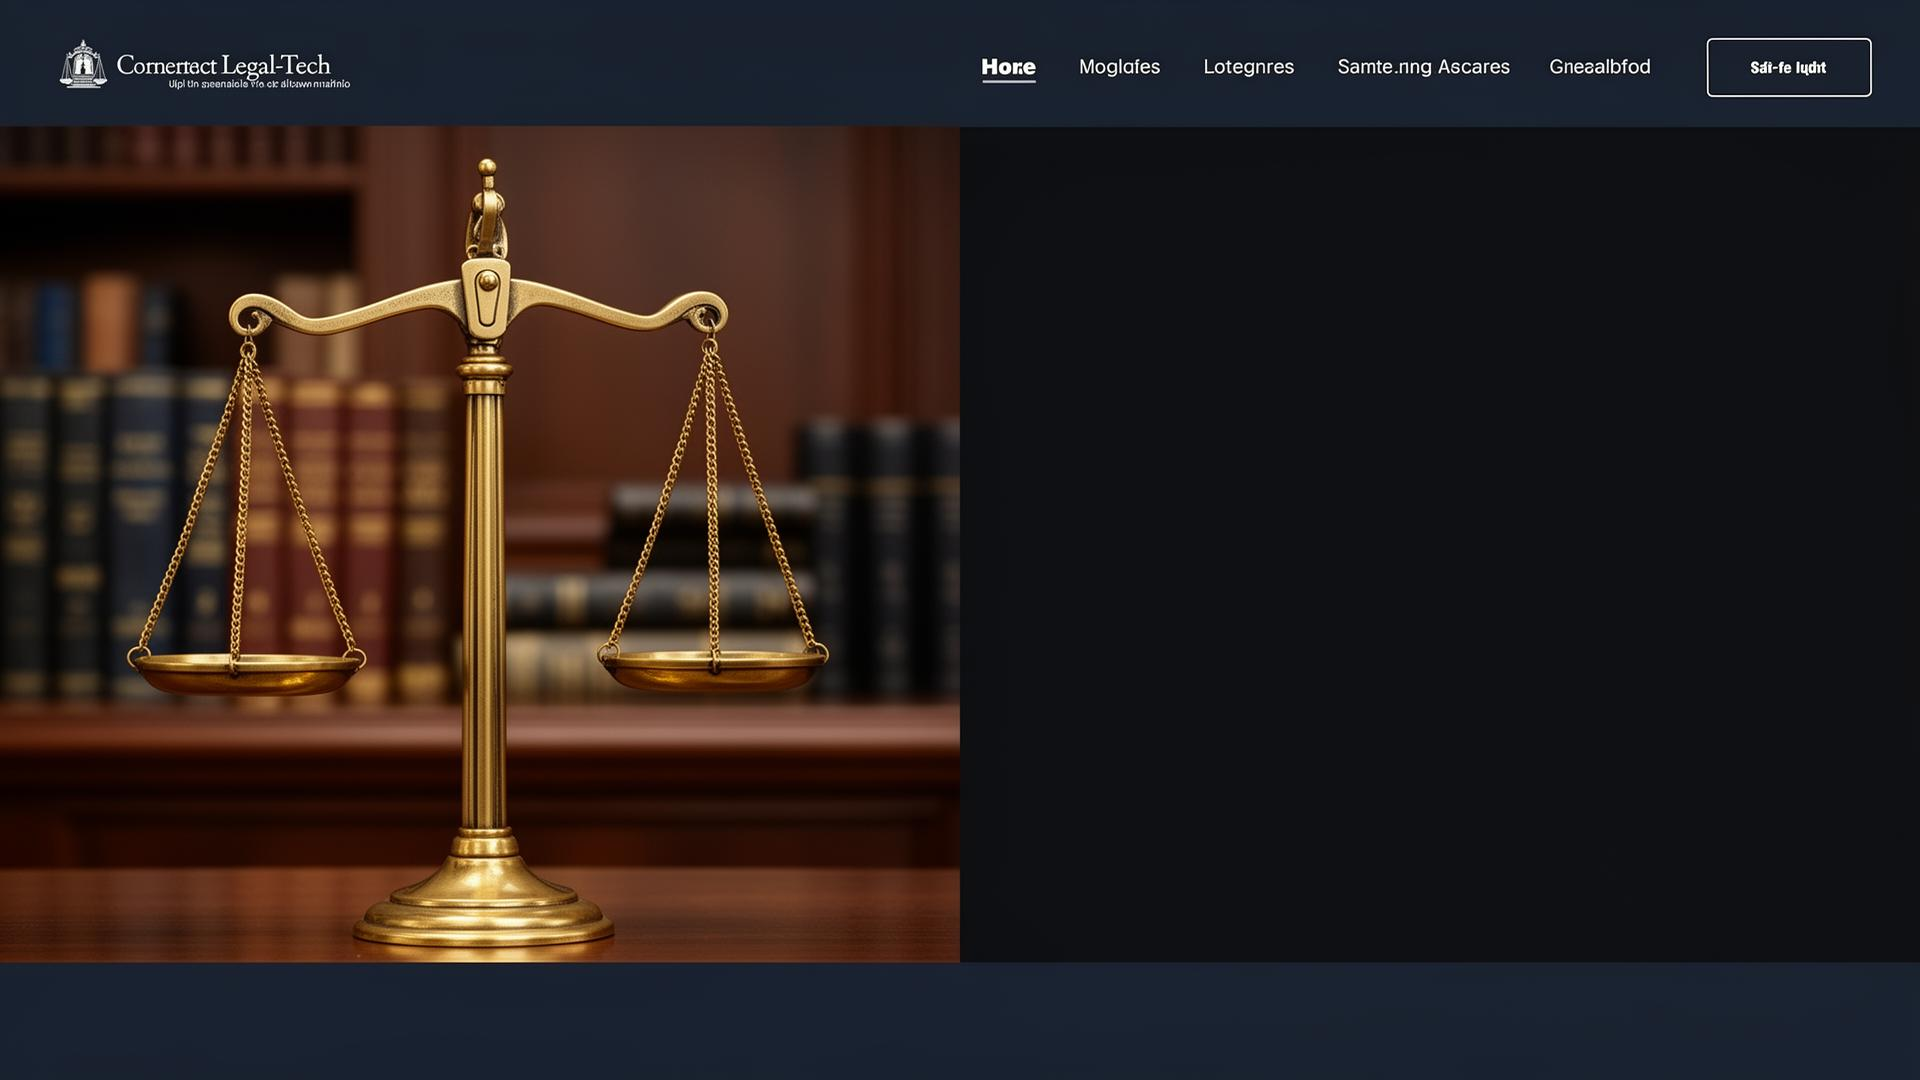
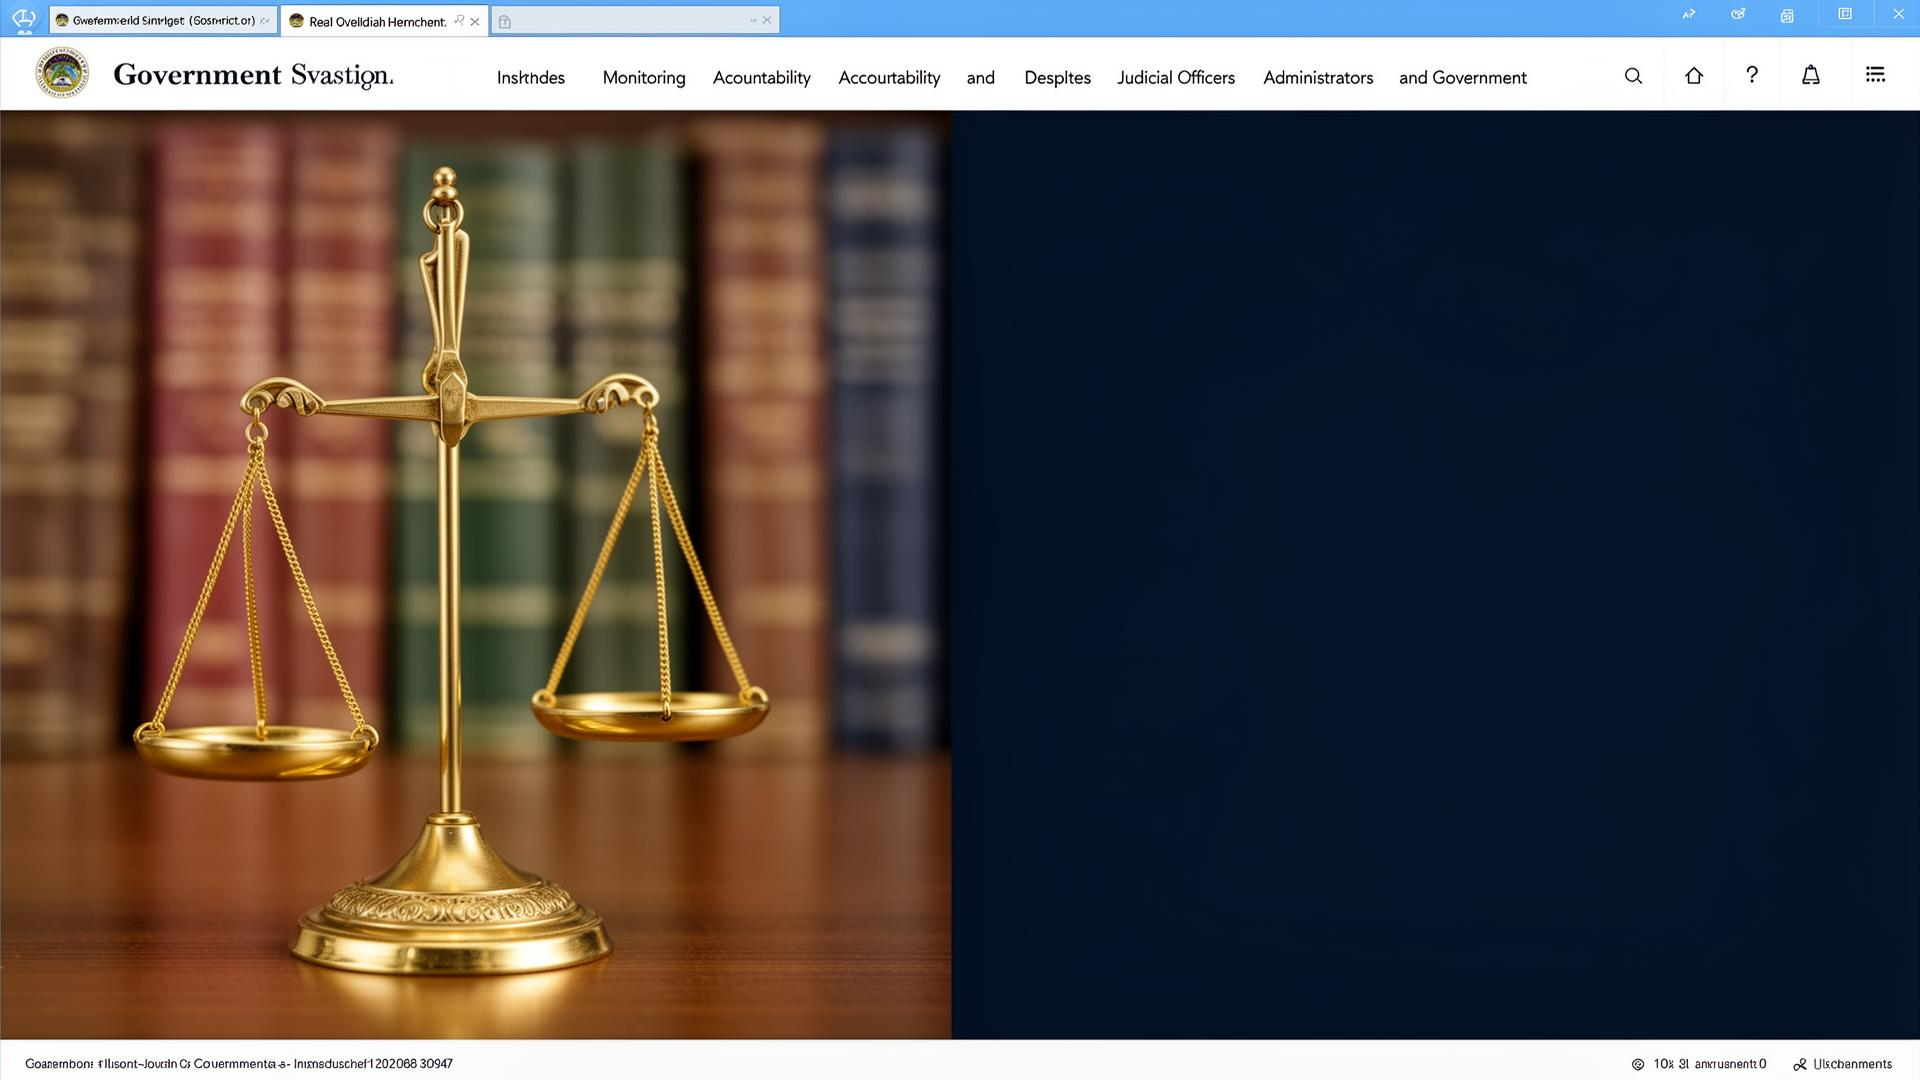
Changes

diff --git a/src/components/LandingPage.tsx b/src/components/LandingPage.tsx
@@ -93,100 +93,89 @@ const LandingPage = () => {
         </p>
       </motion.div>
 
-      {/* Main content - glassmorphism panel on right */}
+      {/* Main content - enterprise system panel */}
       <motion.div
-        className="relative z-10 flex-1 flex items-center justify-center md:justify-end px-6 md:px-12 lg:px-20"
+        className="relative z-10 flex-1 flex items-center justify-center md:justify-end px-6 md:px-12 lg:px-16"
         initial={{ opacity: 0 }}
         animate={{ opacity: isLaunching && showTransition ? 0 : 1 }}
-        transition={{ duration: 1 }}
+        transition={{ duration: 0.8 }}
       >
-        {/* Glassmorphism Content Panel */}
+        {/* Enterprise System Panel */}
         <motion.div 
-          className="relative w-full max-w-lg p-8 md:p-10 lg:p-12 rounded-2xl"
-          style={{
-            background: "linear-gradient(135deg, hsl(222 47% 8% / 0.85), hsl(222 47% 5% / 0.9))",
-            backdropFilter: "blur(20px)",
-            border: "1px solid hsl(43 52% 50% / 0.15)",
-            boxShadow: "0 8px 32px hsl(222 47% 3% / 0.5), inset 0 1px 0 hsl(43 52% 50% / 0.1)"
-          }}
-          initial={{ opacity: 0, x: 40 }}
-          animate={{ opacity: 1, x: 0 }}
-          transition={{ duration: 1.2, delay: 0.5 }}
+          className="relative w-full max-w-md border border-border/60 bg-card/95"
+          initial={{ opacity: 0, y: 20 }}
+          animate={{ opacity: 1, y: 0 }}
+          transition={{ duration: 0.8, delay: 0.4 }}
         >
-          {/* System State Indicator */}
-          <motion.div
-            className="flex items-center justify-center gap-2 mb-6"
-            initial={{ opacity: 0 }}
-            animate={{ opacity: 1 }}
-            transition={{ duration: 1, delay: 0.8 }}
-          >
-            <span className="text-xs font-sans text-muted-foreground/80 tracking-wider uppercase">
-              System State: {isLaunching ? 'Monitoring Enabled' : 'Inactive'}
-            </span>
-            <span 
-              className={`w-2 h-2 rounded-full transition-colors duration-1000 ${
-                isLaunching ? 'bg-primary' : 'bg-muted-foreground/50'
-              }`}
-            />
-          </motion.div>
+          {/* Panel Header */}
+          <div className="border-b border-border/60 px-6 py-4">
+            <div className="flex items-center justify-between">
+              <span className="text-xs font-sans text-muted-foreground tracking-wider uppercase">
+                Judicial Monitoring Platform
+              </span>
+              <div className="flex items-center gap-2">
+                <span className="text-[10px] font-sans text-muted-foreground/70 uppercase tracking-wide">
+                  {isLaunching ? 'Active' : 'Standby'}
+                </span>
+                <span 
+                  className={`w-2 h-2 rounded-full ${
+                    isLaunching ? 'bg-primary' : 'bg-muted-foreground/40'
+                  }`}
+                />
+              </div>
+            </div>
+          </div>
 
-          {/* Headlines */}
-          <motion.div
-            className="text-center mb-8"
-            initial={{ opacity: 0, y: 15 }}
-            animate={{ opacity: 1, y: 0 }}
-            transition={{ duration: 1, delay: 1 }}
-          >
-            <h1 
-              className="text-3xl md:text-4xl lg:text-5xl font-serif text-foreground mb-3 tracking-tight"
-            >
+          {/* Panel Body */}
+          <div className="px-6 py-8">
+            {/* System Title */}
+            <h1 className="text-2xl md:text-3xl font-serif text-foreground mb-2 tracking-tight">
               Justice is waiting.
             </h1>
             <p 
-              className="text-xl md:text-2xl lg:text-3xl font-serif"
+              className="text-lg md:text-xl font-serif mb-6"
               style={{ color: "#C9A24D" }}
             >
               Time is not.
             </p>
-          </motion.div>
 
-          {/* Launch Button */}
-          <motion.div
-            className="flex flex-col items-center gap-4"
-            initial={{ opacity: 0 }}
-            animate={{ opacity: 1 }}
-            transition={{ duration: 1, delay: 1.3 }}
-          >
+            {/* System Description */}
+            <p className="text-sm text-muted-foreground font-sans leading-relaxed mb-8">
+              Real-time monitoring and accountability system for judicial proceedings. Track case timelines, identify delays, and ensure timely justice delivery.
+            </p>
+
+            {/* Status Indicators */}
+            <div className="grid grid-cols-3 gap-4 mb-8 py-4 border-y border-border/40">
+              <div className="text-center">
+                <span className="block text-xs text-muted-foreground/70 uppercase tracking-wide mb-1">Cases</span>
+                <span className="text-lg font-sans text-foreground">2,847</span>
+              </div>
+              <div className="text-center border-x border-border/40">
+                <span className="block text-xs text-muted-foreground/70 uppercase tracking-wide mb-1">Pending</span>
+                <span className="text-lg font-sans text-status-warning">412</span>
+              </div>
+              <div className="text-center">
+                <span className="block text-xs text-muted-foreground/70 uppercase tracking-wide mb-1">Critical</span>
+                <span className="text-lg font-sans text-status-danger">23</span>
+              </div>
+            </div>
+
+            {/* Primary Action */}
             <motion.button
               onClick={handleLaunch}
               disabled={isLaunching}
-              className="group relative w-full px-8 py-4 font-sans text-sm tracking-[0.2em] uppercase transition-all duration-500 disabled:opacity-50 disabled:cursor-not-allowed rounded-lg"
-              style={{
-                background: "hsl(222 47% 10%)",
-                border: "1px solid #C9A24D",
-                color: "#C9A24D",
-                boxShadow: "0 4px 20px hsl(222 47% 3% / 0.6)"
-              }}
-              whileHover={{ 
-                boxShadow: "0 4px 30px hsl(222 47% 3% / 0.8), 0 0 20px hsl(43 52% 50% / 0.2)",
-                background: "hsl(222 47% 12%)"
-              }}
+              className="w-full px-6 py-3 font-sans text-sm tracking-wide uppercase transition-all duration-300 disabled:opacity-50 disabled:cursor-not-allowed bg-primary text-primary-foreground hover:bg-primary/90"
             >
-              <span className="relative z-10">
-                {isLaunching ? "Initiating..." : "Enter Monitoring System"}
-              </span>
-              
-              {/* Corner accents */}
-              <span className="absolute top-0 left-0 w-3 h-3 border-t border-l border-primary/60 rounded-tl transition-all duration-300 group-hover:w-4 group-hover:h-4 group-hover:border-primary" />
-              <span className="absolute top-0 right-0 w-3 h-3 border-t border-r border-primary/60 rounded-tr transition-all duration-300 group-hover:w-4 group-hover:h-4 group-hover:border-primary" />
-              <span className="absolute bottom-0 left-0 w-3 h-3 border-b border-l border-primary/60 rounded-bl transition-all duration-300 group-hover:w-4 group-hover:h-4 group-hover:border-primary" />
-              <span className="absolute bottom-0 right-0 w-3 h-3 border-b border-r border-primary/60 rounded-br transition-all duration-300 group-hover:w-4 group-hover:h-4 group-hover:border-primary" />
+              {isLaunching ? "Authenticating..." : "Access System"}
             </motion.button>
+          </div>
 
-            <p className="text-muted-foreground/60 text-xs font-sans tracking-wide text-center">
-              For authorized judicial and administrative use
+          {/* Panel Footer */}
+          <div className="border-t border-border/60 px-6 py-3">
+            <p className="text-[11px] text-muted-foreground/60 font-sans text-center tracking-wide">
+              Authorized personnel only • Secure connection required
             </p>
-          </motion.div>
+          </div>
         </motion.div>
       </motion.div>
 
